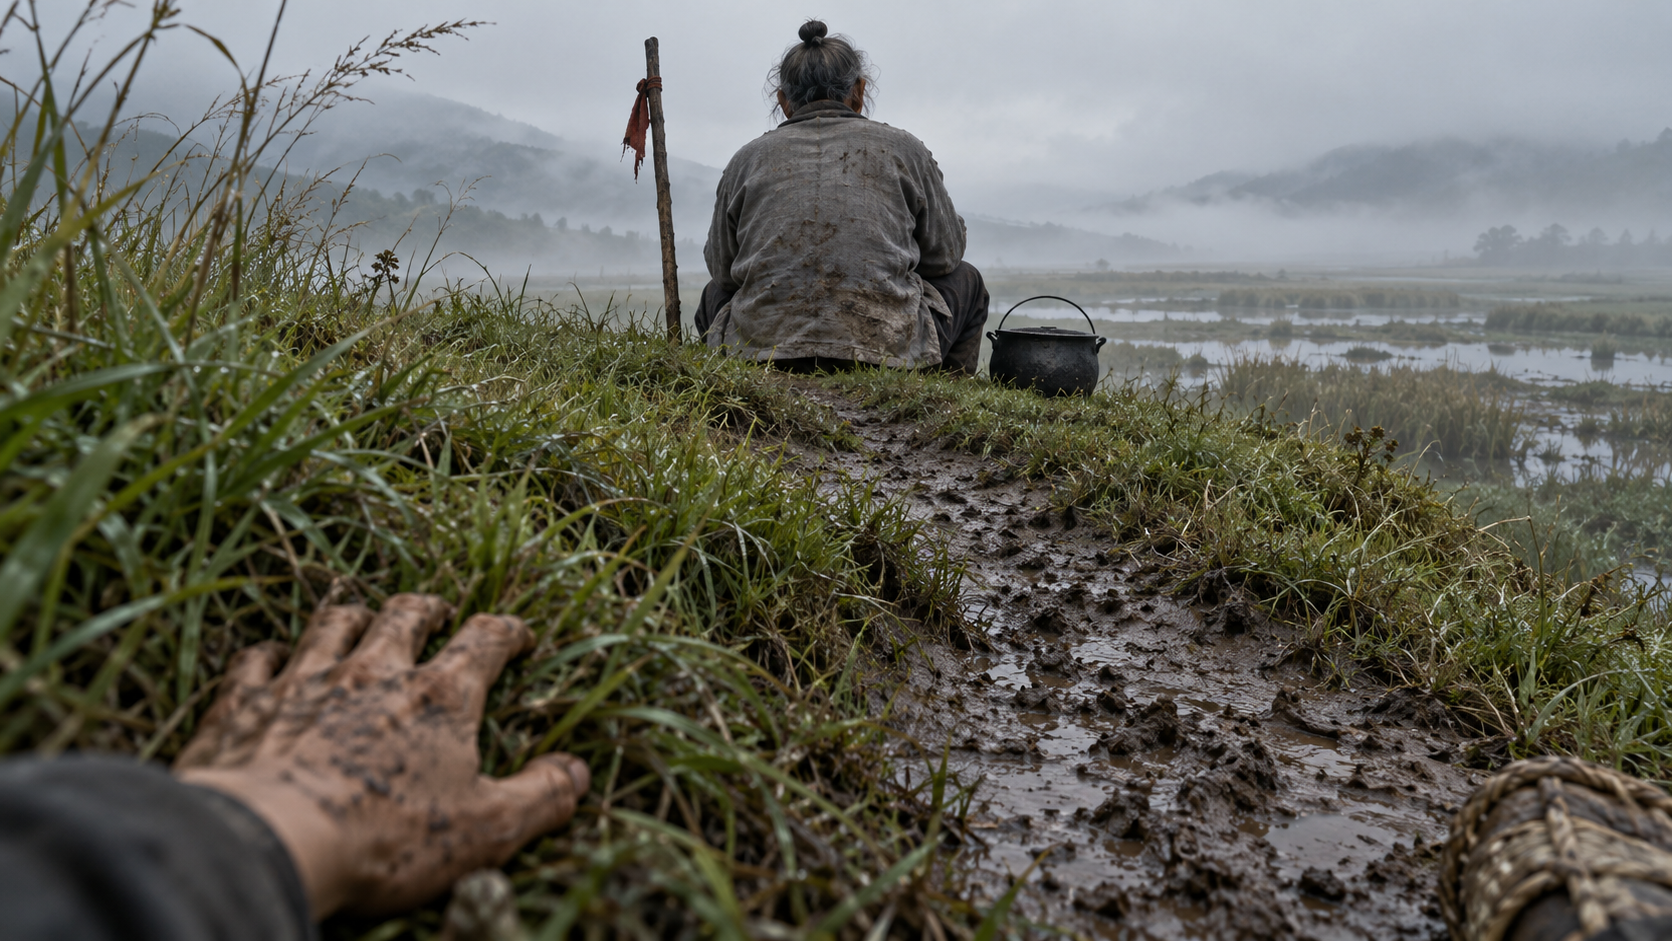
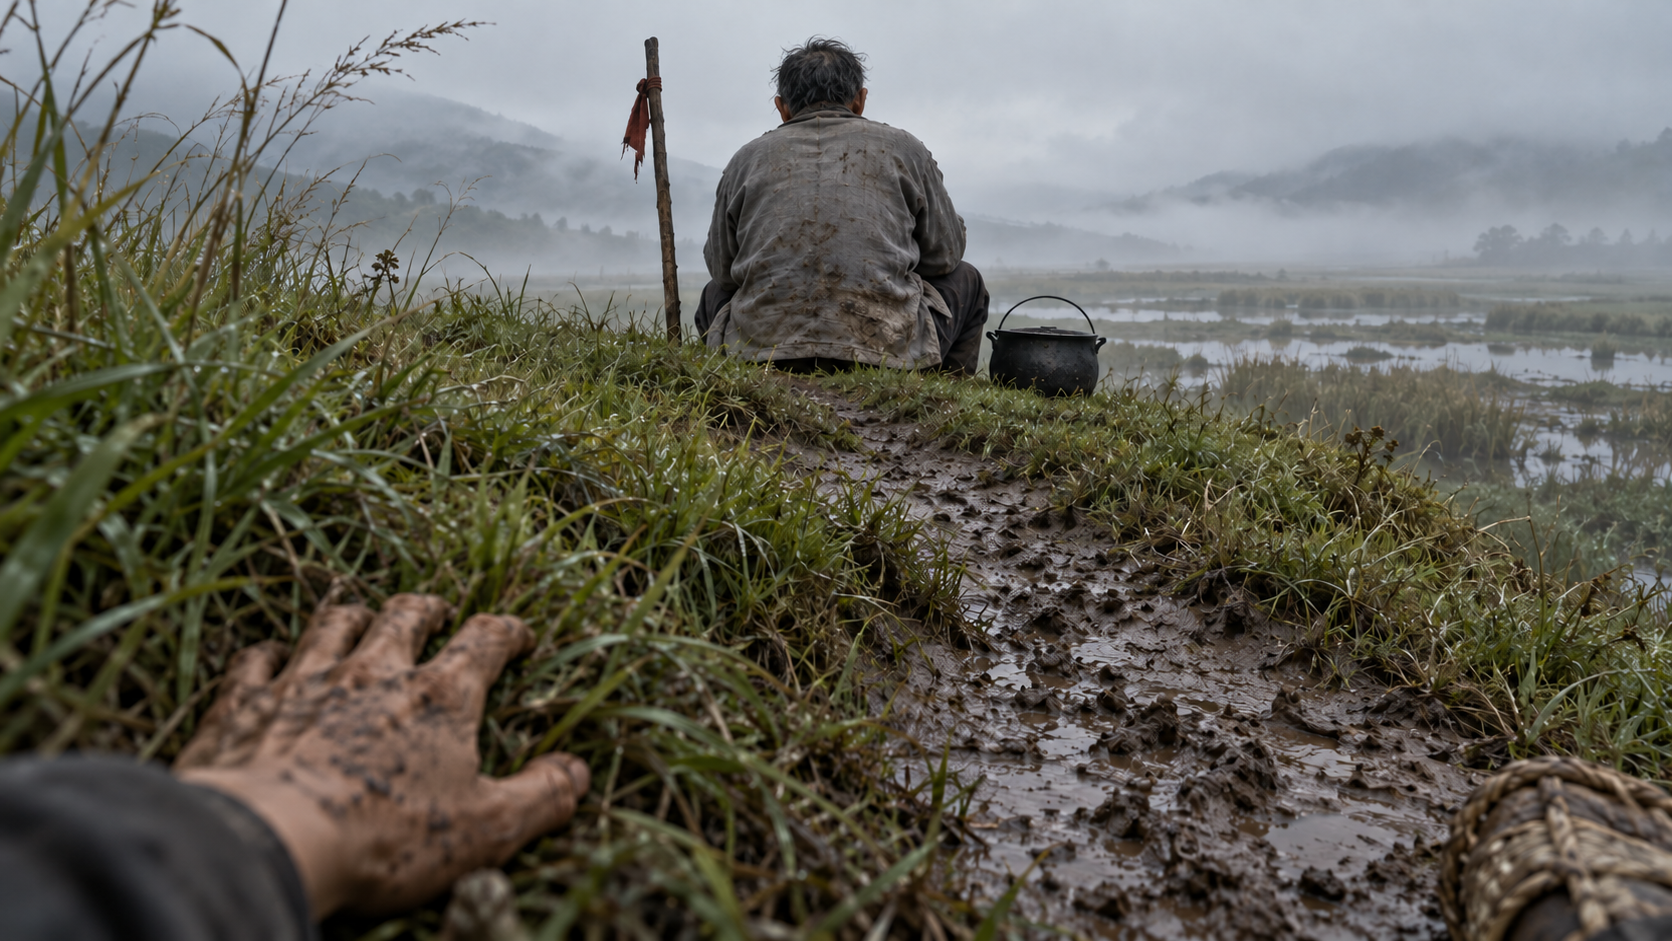
Correct the squad leader's tied hairstyle in the final approach shot

Changed region(s): [[0.0622, 0.2157, 1.0, 0.8321], [0.4354, 0.0, 0.5287, 0.1233], [0.6531, 0.8013, 0.7153, 0.8321]]

diff --git a/js/image-assets.js b/js/image-assets.js
@@ -1,14 +1,14 @@
 // Generated by tools/optimize-images.py; do not edit.
-export const IMAGE_RELEASE = "7a84f7617016";
+export const IMAGE_RELEASE = "d577d2fe819c";
 export const IMAGE_ASSETS = {
   "assets/stills/approach-last-signpost.png": {
-    "originalBytes": 2731896,
+    "originalBytes": 2578430,
     "width": 1672,
     "height": 941,
-    "full": "assets/optimized/approach-last-signpost-full-9d3764cdd4bc.webp",
-    "fullBytes": 245086,
-    "small": "assets/optimized/approach-last-signpost-small-b77bd218d6ce.webp",
-    "smallBytes": 111120
+    "full": "assets/optimized/approach-last-signpost-full-5bc4efc85d24.webp",
+    "fullBytes": 215168,
+    "small": "assets/optimized/approach-last-signpost-small-ecae49869c5e.webp",
+    "smallBytes": 104530
   },
   "assets/stills/approach-medic-night.png": {
     "originalBytes": 2230005,

diff --git a/js/main.js b/js/main.js
@@ -1,9 +1,9 @@
 // 界面接线：标题页、史料卡、菜单、结尾报告。
-import { StoryEngine } from "./engine.js?v=20261023-visual3";
+import { StoryEngine } from "./engine.js?v=20261023-hair1";
 import { Save } from "./save.js";
 import { initAsk } from "./ask.js?v=20261023-askchoice";
 import { buildReflectionText } from "./reflection-report.js";
-import { renderReflectionReport } from "./reflection-view.js?v=20261023-visual2";
+import { renderReflectionReport } from "./reflection-view.js?v=20261023-hair1";
 
 const $ = (id) => document.getElementById(id);
 const screens = ["screenTitle", "screenLore", "screenReplay", "screenMenu", "screenAbout", "screenReport", "screenTalk", "screenError"];

diff --git a/js/engine.js b/js/engine.js
@@ -6,7 +6,7 @@ import { AudioManager } from "./audio.js";
 import { Save } from "./save.js";
 import { frameOf, guttersFromProfiles, panelBoxes } from "./sheet-geometry.js";
 import { buildReflectionReport } from "./reflection-report.js";
-import { imageSource, visualLayout } from "./visual-delivery.js?v=20261023-visual2";
+import { imageSource, visualLayout } from "./visual-delivery.js?v=20261023-hair1";
 
 const $ = (id) => document.getElementById(id);
 const PLAYER = "__player__";

diff --git a/index.html b/index.html
@@ -202,7 +202,7 @@
   <div class="chapter-card" id="chapterCard" hidden><span id="chapterCardText"></span></div>
 
   <script src="js/site-config.js?v=20261021-network-check"></script>
-  <script type="module" src="js/main.js?v=20261023-visual3"></script>
+  <script type="module" src="js/main.js?v=20261023-hair1"></script>
   <script src="js/landscape.js?v=20261020-1"></script>
 </body>
 </html>

diff --git a/js/reflection-view.js b/js/reflection-view.js
@@ -1,4 +1,4 @@
-import { imageSource } from "./visual-delivery.js?v=20261023-visual2";
+import { imageSource } from "./visual-delivery.js?v=20261023-hair1";
 // 全部原话用 textContent 呈现，玩家输入不会成为页面标记。
 function reflectionNode(tag, className, text) {
   const node = document.createElement(tag);

diff --git a/js/visual-delivery.js b/js/visual-delivery.js
@@ -1,4 +1,4 @@
-import { IMAGE_ASSETS } from "./image-assets.js?v=20261023-visual2";
+import { IMAGE_ASSETS } from "./image-assets.js?v=20261023-hair1";
 
 // Canonical PNG paths remain in the story/save. Only the delivered file varies.
 export function imageSource(src, { width = 1440, dpr = 1 } = {}, assets = IMAGE_ASSETS) {

diff --git a/docs/IMAGE_HAIR_FIX.md b/docs/IMAGE_HAIR_FIX.md
@@ -1,0 +1,11 @@
+# 老班长发型修正（2026-10-23）
+
+- 位置：第四幕“走近老班长”，`assets/stills/approach-last-signpost.png`。
+- 用户指出背影人物扎发髻与老班长的设定不一致；使用内置 imagegen 对原图局部编辑，改为自然、凌乱的黑灰色短发。
+- 已目视确认发髻和束发消失；背对视角、坐姿、红布木棍、黑锅、前景手和草鞋、泥路与远山保留。
+- 替换前母版备份于项目外 `D:/讯飞杯/output/hair-fix-2026-10-23/approach-last-signpost-before.png`。
+- 通过既有优化脚本生成新的高清与手机 WebP，文件内容指纹改变；更新模块版本参数，让重新打开页面时获取新映射。
+
+## 实际编辑提示词
+
+Use case: precise-object-edit. Image 1 is the edit target, a photorealistic 16:9 historical film still for a 1935 Chinese Red Army grassland story. Make ONE tightly localized correction to the elderly MALE squad leader seated with his back to the viewer in the upper center. Remove his topknot/hair bun and all tied-up or long nape hair, replacing ONLY his hair with practical short, damp, untied, uneven black-and-gray hair, about 2–4 cm long, consistent with an exhausted older Chinese male Red Army soldier. Natural short hairline at the back of his neck. No braid, ponytail, bun, shaved decorative style, hair accessory or new hat. Preserve the exact back-facing pose, male identity, neck, ears, head angle, body, muddy gray uniform, seated position, red-cloth wooden marker on his left, black pot on his right, marsh, mountains, cloudy sky, muddy path, foreground first-person left hand and straw shoe. Preserve all composition, physical contact, lighting, low-saturation gray-green/mud-brown colors and image texture outside the small hair region. Do not add/remove/move any person, prop or scenery. Keep the original wide 16:9 framing. The only visible change should be a believable short male haircut instead of the topknot. No text or watermark.
